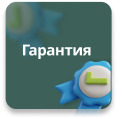
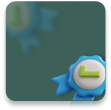
modified:   src/App.js 	modified:   src/garant.png 	new file:   src/how.png 	deleted:    src/howdy.png 	new file:   src/loyal.png 	modified:   src/why.png

Changed region(s): [[0.1081, 0.0, 0.973, 0.9545], [0.027, 0.0273, 0.0811, 0.9]]

diff --git a/src/App.js b/src/App.js
@@ -3,9 +3,7 @@ import axios from "axios";
 import { useNavigate } from "react-router-dom"; // Импортируем useNavigate
 import Search from "./components/Search/Search";
 import "./App.css";
-import fly from "./fly.png";
-import how from "./howdy.png";
-import why from "./why.png";
+
 import garant from "./garant.png";
 import myLog from "./myLog.png";
 import sendRequest from "./sendRequest.png";
@@ -53,11 +51,11 @@ function App() {
   );
 
   const openProfilePage = () => {
-    navigate('/profile'); // Переход на страницу профиля
+    navigate("/profile"); // Переход на страницу профиля
   };
 
   const openSendRequestPage = () => {
-    navigate('/send-request'); // Переход на страницу отправки запроса
+    navigate("/send-request"); // Переход на страницу отправки запроса
   };
 
   // const openProductPage = (product) => {
@@ -84,10 +82,11 @@ function App() {
         </div>
       </div>
       <Search searchQuery={searchQuery} setSearchQuery={setSearchQuery} />
-      <div className="info-buttons">
-        <img src={why} alt="why" loading="eager"></img>
-        <img src={how} alt="how" loading="eager"></img>
-        <img src={garant} alt="garant" loading="eager"></img>
+      <div className="about-buttons-question">
+        <div className="why">Почему BANSYS?</div>
+        <div className="how">Как купить?</div>
+        <div className="garante">Гарантия</div>
+        <div className="loyal">Наша программа лояльности</div>
       </div>
       <div className="log-help">
         <img
@@ -97,11 +96,7 @@ function App() {
           loading="eager"
           onClick={openProfilePage}
         ></img>
-        <img
-          src={sendRequest}
-          alt=""
-          onClick={openSendRequestPage}
-        ></img>
+        <img src={sendRequest} alt="" onClick={openSendRequestPage}></img>
       </div>
       <div className="company">
         <img src={hyosung} alt="hyosung"></img>
@@ -145,7 +140,6 @@ function App() {
       {isProductModalOpen && (
         <ProductModal product={selectedProduct} onClose={closeProductModal} />
       )}
-
     </div>
   );
 }
